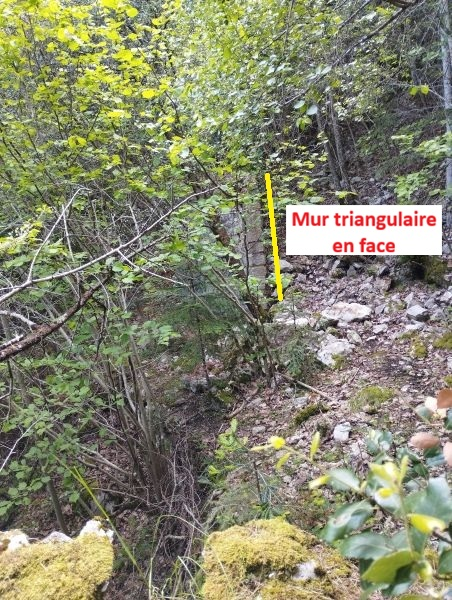
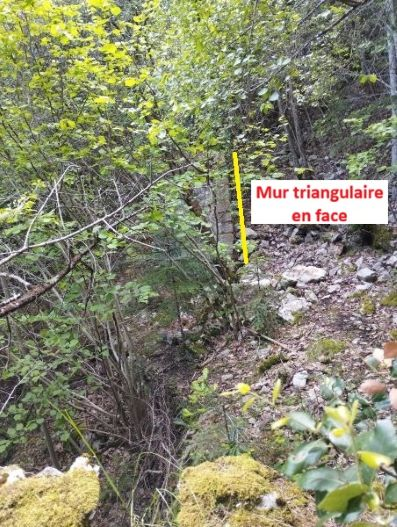
funiculaire suite 3

diff --git a/stgeorgesfuniculaire/stgeorgesfuniculaire.html b/stgeorgesfuniculaire/stgeorgesfuniculaire.html
@@ -143,7 +143,7 @@
     <p class="Legende-image">Culée basse (droite) du pont, remarquer la taille et la forme des 4 trous correspondant aux 4 troncs qui formaient le tablier du pont (troncs encastrés directement dans le ciment</p>
     <img src="images/IMG_20260513_095036.jpg" alt="Culée basse / culée haute" width="795" height="596">
     <p class="Legende-image">Culée haute (triangle) du pont, depuis la culée basse pour essayer d'apprécier la distance entre les 2 culées (environ 8 mètres)</p>    
-    <img src="images/IMG_20260513_095220_2.jpg" alt="Culée haute / culée Basse" width="452" height="600">
+    <img src="images/IMG_20260513_095220_3.jpg" alt="Culée haute / culée Basse" width="795" height="527">
     <p class="Legende-image">Vue inverse de la Culée basse du pont, depuis la culée haute</p>
      <img src="images/IMG_20251115_110115-001.jpg" alt="Culée haute" width="640" height="480">
     <p class="Legende-image">En bas de la Culée basse, 2 trous ronds sont la trace de 2 troncs de soutien du tablier, placés en biais pour étayer le pont</p>    
@@ -165,6 +165,30 @@
     <img src="images/IMG_20260513_101234.jpg" alt="Culée haute 5" width="793" height="380">
 
     <h3>Musée en plein air des pièces métalliques du funiculaire</h3>
+    <img src="images/IMG_20260513_103031.jpg" alt="Culée haute 5" width="795" height="527">
+    <img src="images/IMG_20260513_112916.jpg" alt="Culée haute 5" width="793" height="380">
+    <img src="images/IMG_20260513_113536.jpg" alt="Culée haute 5" width="797" height="352">
+    <img src="images/IMG_20260513_114346.jpg" alt="Culée haute 5" width="797" height="351">
+    <img src="images/IMG_20260513_114355.jpg" alt="Culée haute 5" width="795" height="295">
+    <img src="images/IMG_20260513_114605.jpg" alt="Culée haute 5" width="795" height="599">
+    <img src="images/IMG_20260513_114913.jpg" alt="Culée haute 5" width="797" height="473">
+    <img src="images/IMG_20260513_115353.jpg" alt="Culée haute 5" width="797" height="527">
+    <img src="images/IMG_20260513_120025.jpg" alt="Culée haute 5" width="797" height="527">
+    <img src="images/IMG_20260513_120040.jpg" alt="Culée haute 5" width="480" height="480">
+    <img src="images/IMG_20260513_120207.jpg" alt="Culée haute 5" width="795" height="397">
+    <img src="images/IMG_20260513_120600.jpg" alt="Culée haute 5" width="795" height="795">
+    <img src="images/IMG_20260513_120801.jpg" alt="Culée haute 5" width="795" height="563">
+    <img src="images/IMG_20260513_120812.jpg" alt="Culée haute 5" width="795" height="496">
+    <img src="images/IMG_20260513_121117.jpg" alt="Culée haute 5" width="795" height="534">
+    <img src="images/IMG_20260513_121710.jpg" alt="Culée haute 5" width="795" height="573">
+    <img src="images/IMG_20260513_122124.jpg" alt="Culée haute 5" width="795" height="544">
+    <img src="images/IMG_20260513_122221.jpg" alt="Culée haute 5" width="452" height="600">
+    <img src="images/IMG_20260513_122956.jpg" alt="Culée haute 5" width="795" height="795">
+    <img src="images/IMG_20260513_123530.jpg" alt="Culée haute 5" width="795" height="323">
+    <img src="images/IMG_20260513_131000.jpg" alt="Culée haute 5" width="420" height="420">
+    <img src="images/IMG_20260513_151950.jpg" alt="Culée haute 5" width="795" height="795">
+    <img src="images/IMG_20260513_152217.jpg" alt="Culée haute 5" width="420" height="420">
+    <img src="images/IMG_20260513_153621.jpg" alt="Culée haute 5" width="795" height="795">
     à suivre
     
     <h2>Références</h2>